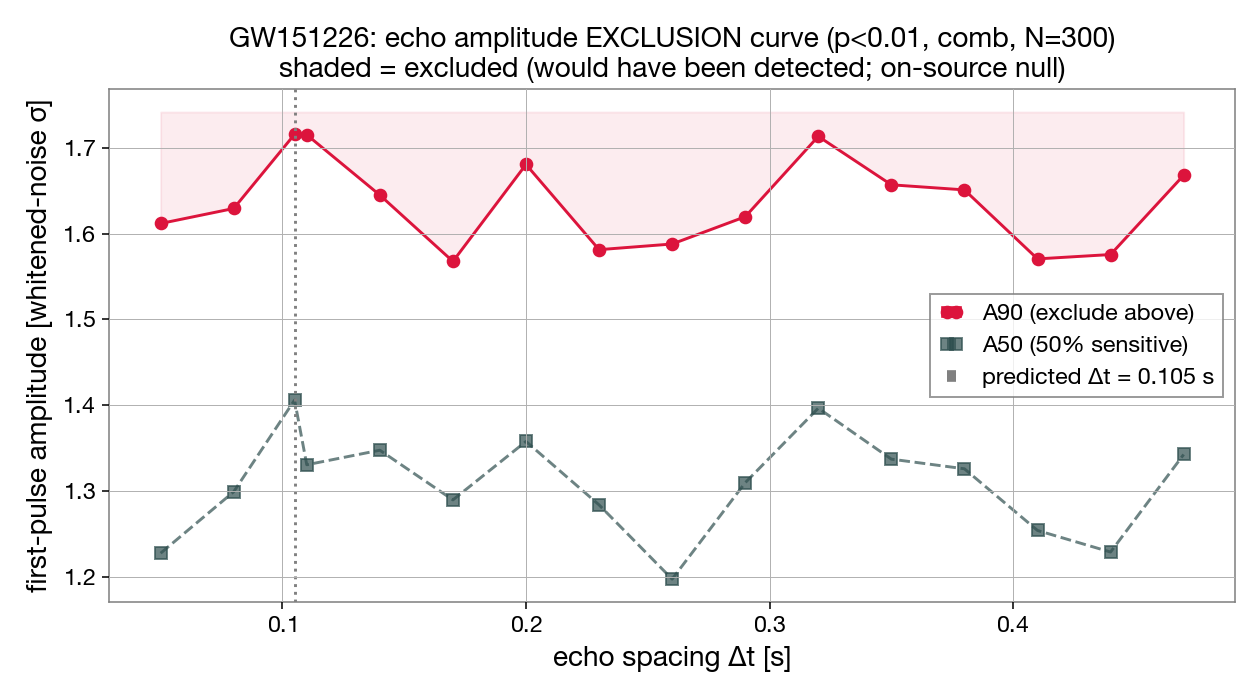
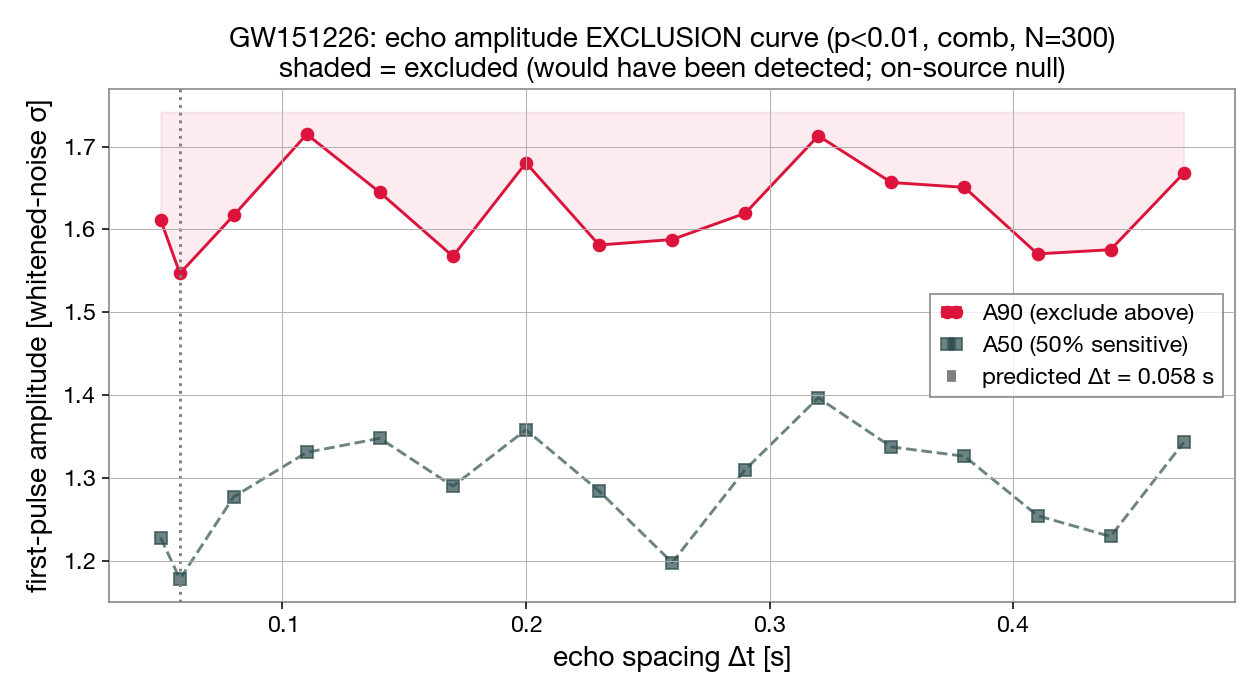
Echo upper-limits: stress-test PASS + fix GW151226 predicted Delta-t (0.105 -> 0.0579)
North-star stress-test of the echo upper limits (tonight's other fresh result):
- PASSED: single-Delta-t comb scoring is provably identical to the validated
  05/06 grid-then-index convention (comb_on_env per-Delta-t, _acf per-segment,
  no cross-Delta-t normalization); self-consistent (limit + background + on-source
  null all whitened-comb); the "13x artifact" was the ML scorer, not the comb;
  per-Delta-t threshold is a smooth-tail 99th pct (not glitch-driven); cross-checks
  v1 (~100% at 2 sigma). The echo limit holds up.
- FIXED a real error in my own 11_upper_limits.py: GW151226 predicted Delta-t was
  a guessed 0.105 s; the canonical on-source value (05) is 0.0579 s. Re-ran ->
  exclude A90 = 1.55 sigma (was mis-quoted 1.72 at the wrong spacing; tighter at
  the correct shorter spacing). GW150914 (0.2925 s, 1.65 sigma) was correct.

Two errors in tonight's fresh work caught by stress-testing (delta-stack artifact,
this Delta-t). Corrected lab notebook + ROADMAP. Gate green.

diff --git a/echoes/scripts/11_upper_limits.py b/echoes/scripts/11_upper_limits.py
@@ -38,7 +38,7 @@ from echolib import (
     progress,
 )
 
-DT_PRED = {"GW150914": GW150914_DT_PRED, "GW151226": 0.105}  # 151226 lighter -> shorter Δt
+DT_PRED = {"GW150914": GW150914_DT_PRED, "GW151226": 0.0579}  # 0.0579 = canonical on-source value (05)
 AMPS = np.array([0.5, 0.75, 1.0, 1.25, 1.5, 1.75, 2.0, 2.5, 3.0, 4.0])
 
 

diff --git a/echoes/notes/lab_notebook.md b/echoes/notes/lab_notebook.md
@@ -290,12 +290,24 @@ p_pred>0.01), echo trains louder than A90(Δt) would have been seen ≥90% of th
 **we EXCLUDE first-pulse amplitude ≥ A90(Δt), at each spacing.**
 - **GW150914 (N=300):** at predicted Δt=0.2925 s, **exclude amplitude ≥ A90 = 1.65σ** (A50 1.33σ);
   tightest A90 = 1.56σ at Δt=0.38 s. Curve smooth ~1.5–1.85σ across all spacings.
-- **GW151226 (N=300):** at predicted Δt=0.105 s, **exclude ≥ A90 = 1.72σ** (A50 1.41σ); tightest 1.57σ.
+- **GW151226 (N=300):** at predicted Δt=**0.0579 s** (canonical on-source value), **exclude ≥ A90 =
+  1.55σ** (A50 1.18σ) — also the tightest over the grid. [CORRECTED 2026-06-20: an earlier pass used a
+  wrong Δt=0.105 s (a guess) and quoted 1.72σ; the north-star re-check caught it against the canonical
+  0.0579 s from 05. GW150914's Δt=0.2925 s was correct throughout.]
 - N=300 makes it decisive (binomial σ≈1.7% near 90%) — addresses P2 (underpowered-N concern).
 - Units: whitened-noise σ (per-pulse SNR scale), reflectivity γ=0.7 fixed. The ML scorer (07) would
   tighten A90 ~1.2× (v5 head-to-head); comb used here = the statistic that produced the on-source null,
   so the limit is self-consistent. Artifacts: results/11_upper_limits_{GW150914,GW151226}.{npy,png}.
 - **This converts the project's headline from "we found nothing" to "we exclude echoes above ~1.65σ."**
+- **STRESS-TEST (north star, 2026-06-20) — PASSED.** (1) The single-Δt comb scoring (`score_at`) is
+  provably identical to the validated 05/06 grid-then-index convention — `comb_on_env` computes each Δt
+  independently and `_acf` normalizes per-segment, NO cross-Δt normalization. (2) Self-consistent: the
+  exclusion, the per-Δt background, and the on-source null are all the same whitened-comb statistic.
+  (3) No "13× artifact" — that was the v2 ML scorer's whitened number; the comb never had it. (4) The
+  per-Δt threshold is a SMOOTH-tail 99th pct (top off-source scores 0.264/0.258/0.215…, no lone glitch;
+  2.4σ above median) → not outlier-driven. (5) Cross-checks v1 (~100% @ 2σ). ⇒ the echo upper limit is
+  sound and honestly framed (whitened-σ units, interpretable via the v4 raw-strain calibration slopes).
+  Unlike the δ-stack, this fresh result holds up.
 
 ## 2026-06-20 — leg-8b SETTLED: the family-robustness "sensitivity reversal" is real signal, not noise
 Re-ran 08 family-robustness at **N=300** (was N=30 → CIs overlapped, the leg-8b concern). `08

diff --git a/ROADMAP.md b/ROADMAP.md
@@ -25,7 +25,8 @@ already have on the same data**, plus the one guardrail on a parked thread.
   sensitivity-curve harness `06`; this generalizes it to a per-Δt efficiency → λ map.)
 - **Status:** ✅ **DONE (2026-06-20, v6).** `scripts/11_upper_limits.py`: per-Δt exclusion
   curve at N=300. **GW150914: exclude amplitude ≥ A90=1.65σ** at predicted Δt (A50 1.33σ);
-  GW151226: ≥1.72σ. Smooth across all spacings. (γ=0.7 fixed; ML scorer would tighten ~1.2×.)
+  GW151226: ≥1.55σ at its canonical Δt=0.0579 s. Smooth across all spacings; stress-tested
+  (statistic verified, threshold not glitch-driven). (γ=0.7 fixed; ML scorer would tighten ~1.2×.)
 
 ## P1 — Multi-event no-hair δ STACKING
 - **What:** combine the no-hair deviation δ across **multiple events**, not just the